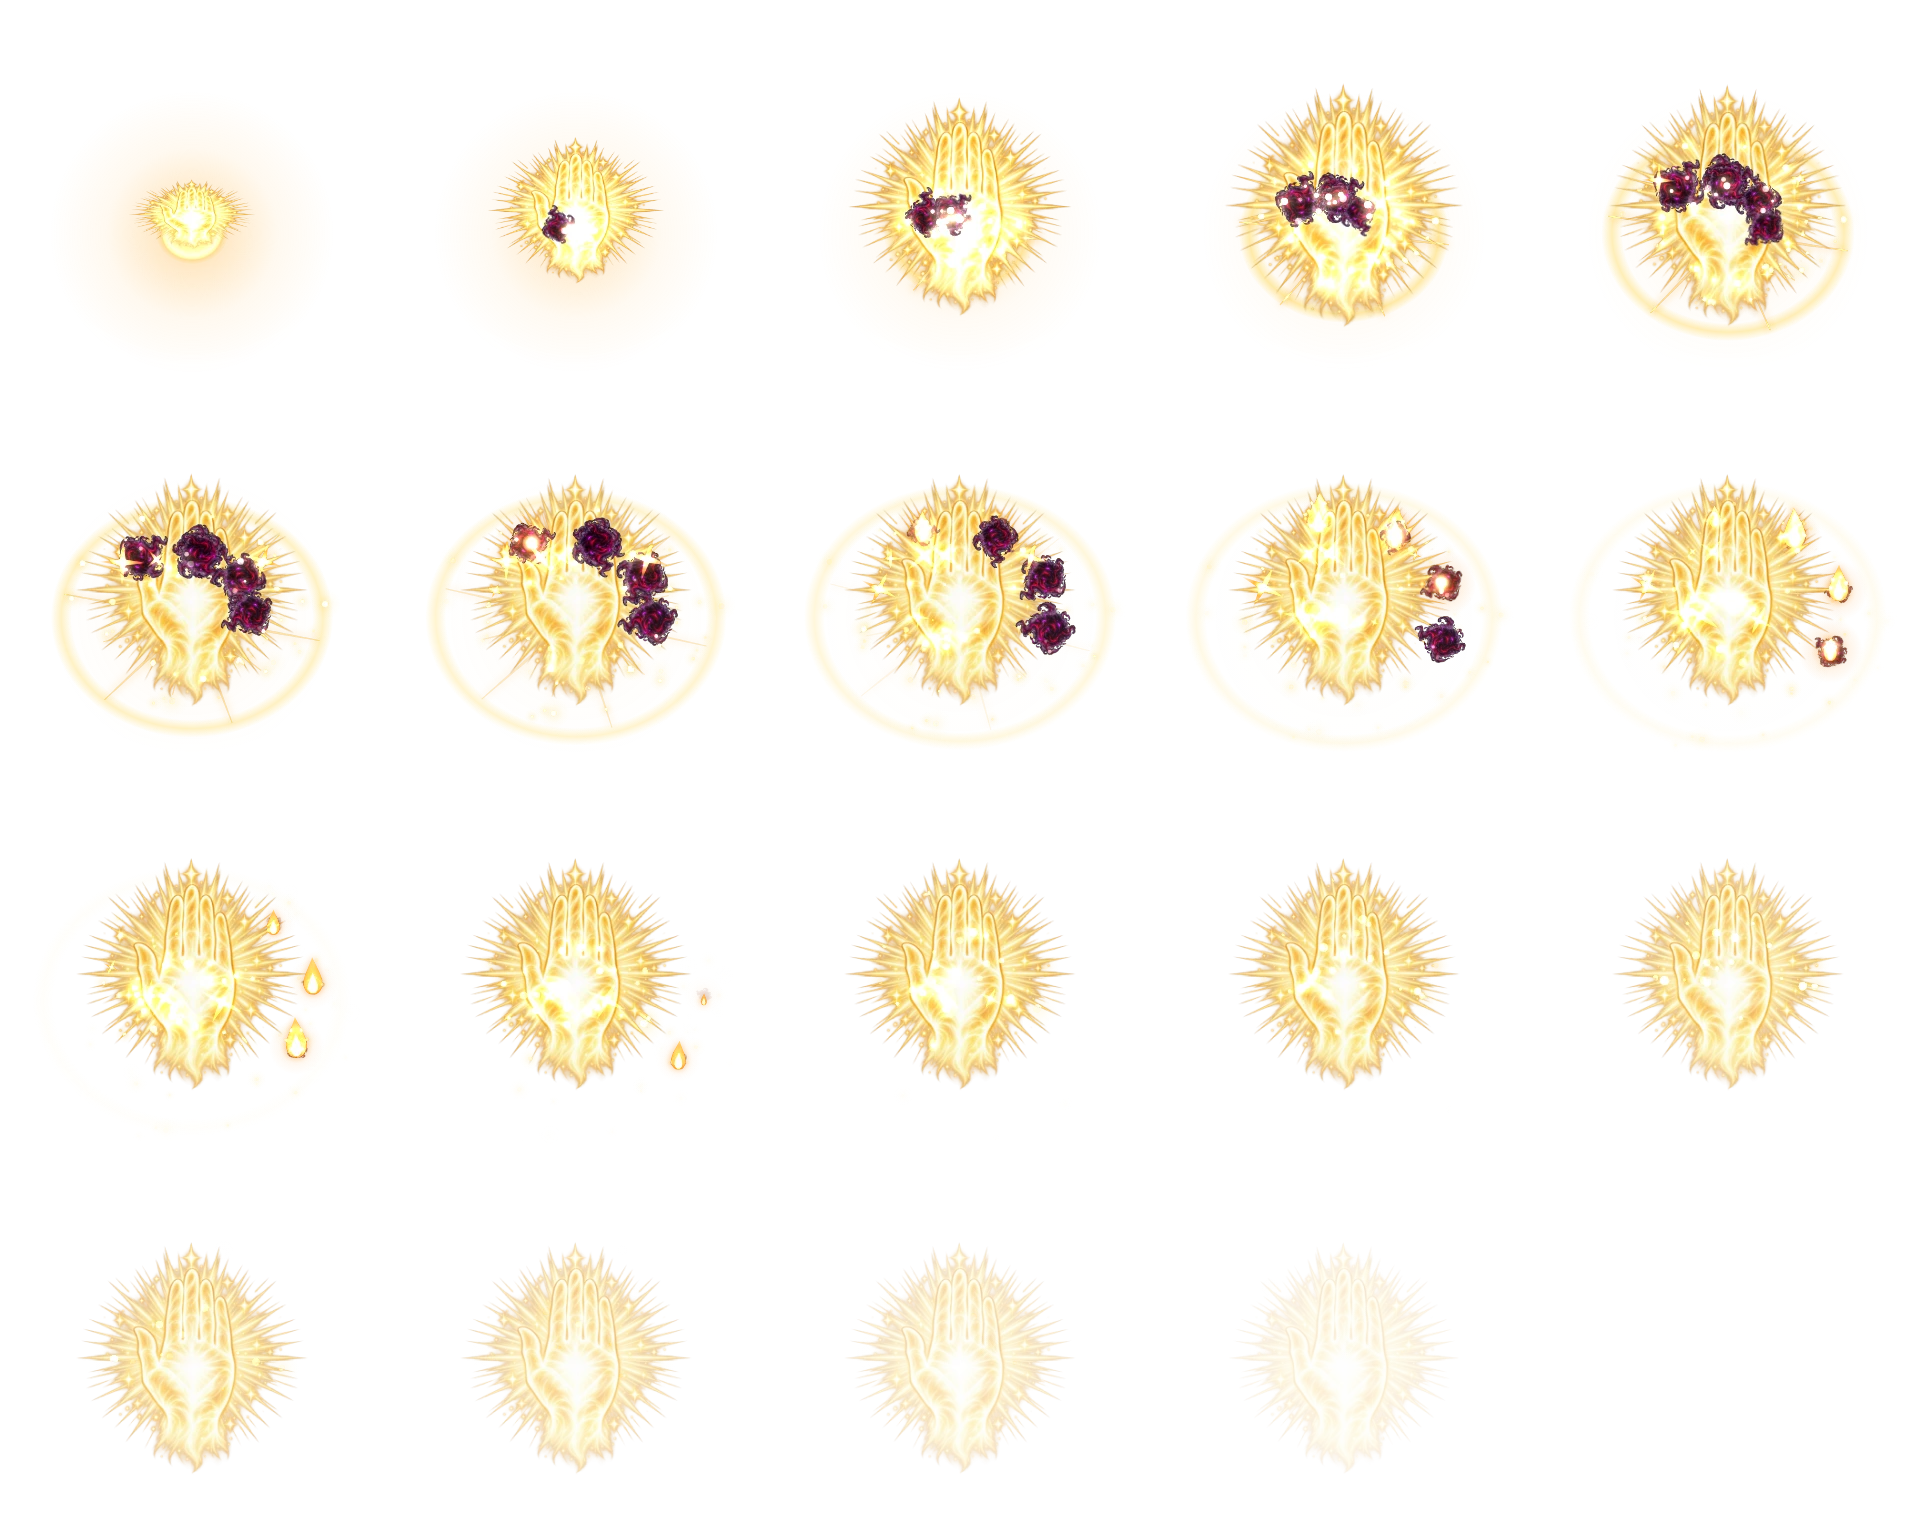
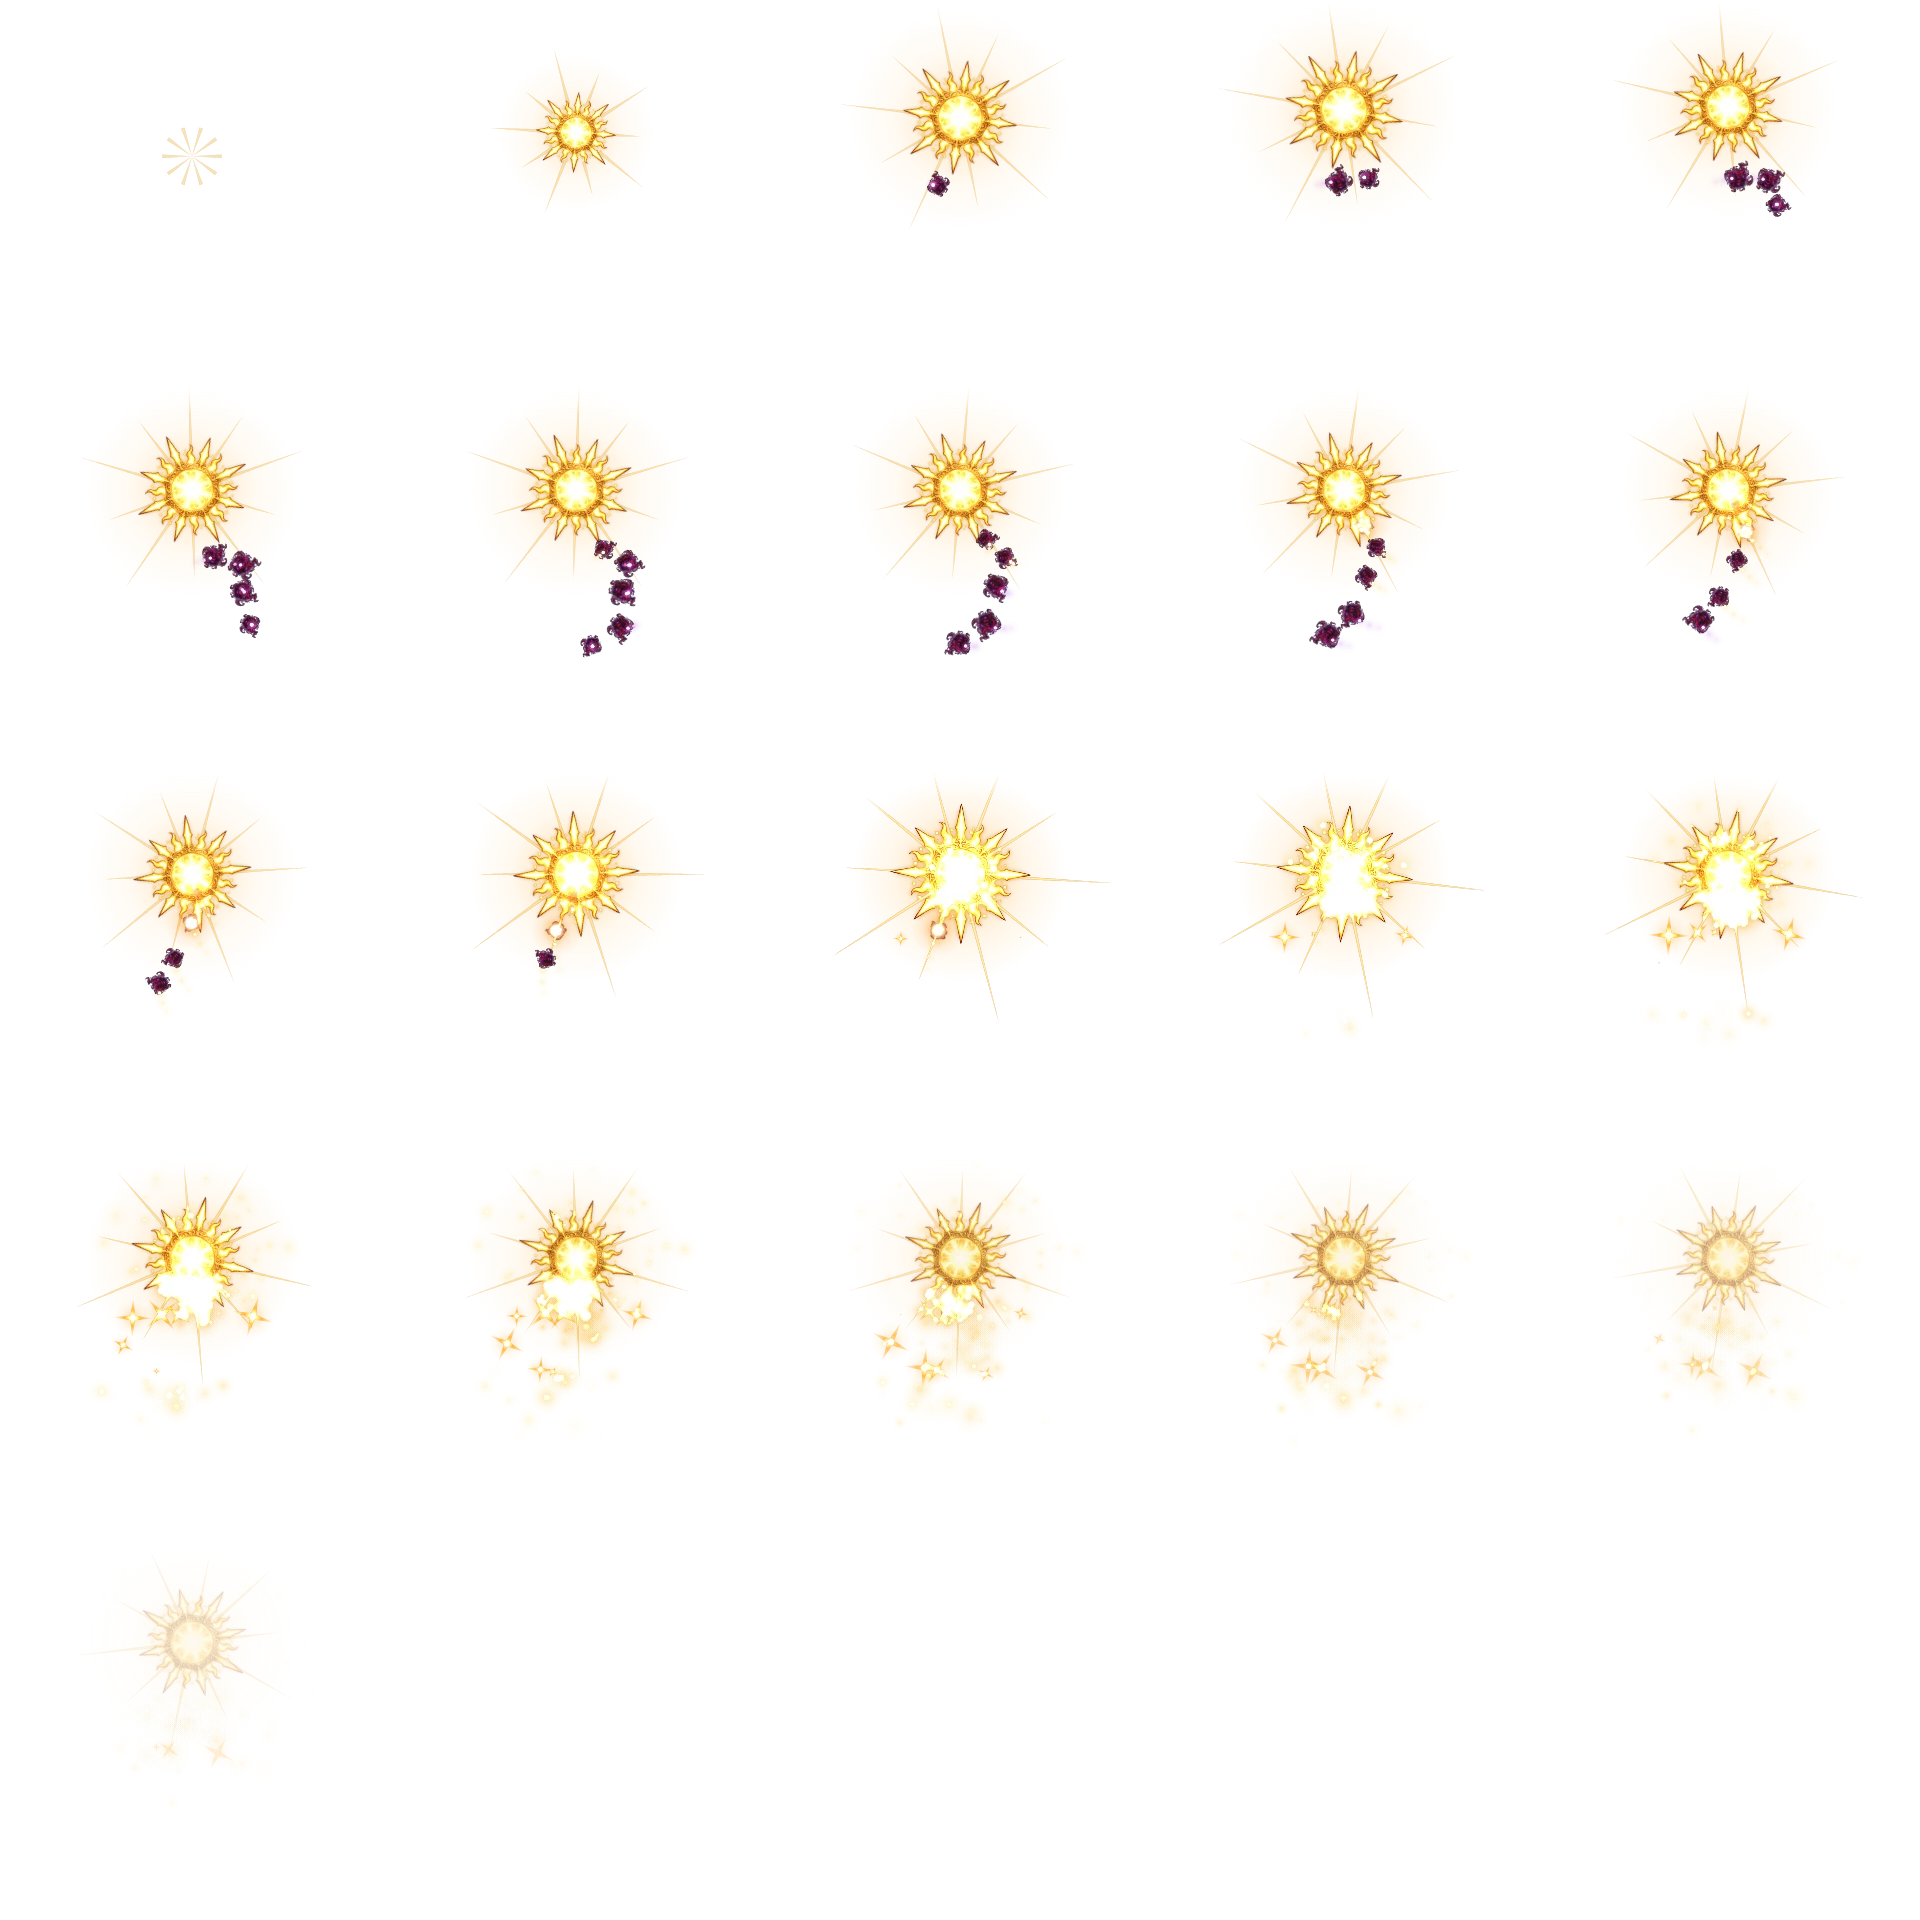
Paladin cleanse: sun emblem that draws out and burns the taint (no hand); sacrifice shield bigger
Lim: remake cleanse without the hand and with a different feel, and make
the sacrifice shield bigger.
- cleanse (22f, logical 100, 384px): a Codex gold sun emblem (paladin-sun)
  rises above the head and slowly turns; dark wisps (paladin-taint) are
  pulled out of the body, spiral up into the sun and burn into sparks;
  then the sun flashes and clean gold dust showers down, burst, glints,
  swirl. paladin-hand asset removed.
- sacrifice (320px): shield 0.72 -> 1.3 with the chain ending at its top,
  bigger glow/ring/orbiting embers.

diff --git a/src/battle/pxf.ts b/src/battle/pxf.ts
@@ -85,8 +85,8 @@ export const PXF = {
   'paladin-beacon': skill(20, 100, { size: 384 }), // 봉화 그릇 · 불꽃 그림이 뭉개지지 않게 384px 프레임 (10-19 Lim)
   'paladin-oath': skill(24, 90),
   'paladin-light-wave': skill(20, 88),
-  'paladin-cleanse': skill(20, 92, { size: 384 }), // 손 그림이 뭉개지지 않게 384px 프레임 (10-19 Lim 「이미지에 신경써보자」)
-  'paladin-sacrifice': skill(22, 92),
+  'paladin-cleanse': skill(22, 100, { size: 384 }), // 태양 문장 그림이 뭉개지지 않게 384px 프레임 (10-19 Lim 「손 모양 제거하고 다른 느낌으로」)
+  'paladin-sacrifice': skill(22, 96, { size: 320 }), // 방패를 크게 (10-19 Lim)
   'paladin-sanctuary': skill(24, 76),
   'paladin-hand-guard': skill(24, 94),
   // 봉화 대상 칸 둘레에서 도는 루프 (스킬 기록이 아니라 board.ts, 2026-10-18 Lim 「봉화대상의 동그란 이미지도 파티클로 루프」)

diff --git a/src/art/pxf/requests.md b/src/art/pxf/requests.md
@@ -63,7 +63,7 @@ Lim 「직업별 스킬별로 이펙트가 달라야 하는데 중복되는 게 
 |  |  | paladin-holy-light | 위에서 쏟아져 내리는 노란 빛 알갱이 (광선 없음, 2026-10-18 Lim) |
 | priest-relay | 포물선으로 날아와 튀는 꼬리 별 | paladin-beacon | 칸 아래 봉화 그릇에 타오르는 불꽃 (Codex 그릇 + 불티) |
 | paladin-oath | 도는 마름모 룬 + 오각 문양 (Codex 오각 서약 문장) | paladin-light-wave | 쏟아져 양옆으로 부서지는 파도 (Codex 파도 마루) |
-| paladin-cleanse | 해돋이 빛살 손바닥 (Codex 빛의 손 · 뽑혀 타는 어둠 연기) | paladin-sacrifice | 내려오는 사슬 + 붉은 맥동 (Codex 진홍 방패) |
+| paladin-cleanse | 머리 위로 솟아 어둠을 빨아들여 태우는 태양 문장 (Codex 태양 문장 · 어둠 연기, 2026-10-19 Lim 손 모양 뺌) | paladin-sacrifice | 내려오는 사슬 + 붉은 맥동 (Codex 진홍 방패) |
 | paladin-sanctuary | 바닥에서 솟는 반구 막 (Codex 빛 돔) | paladin-hand-guard | 도는 팔각 봉인 문양 (Codex 판금 팔각 테) |
 | common-hit | 붉은 할퀸 자국 | common-crit | 오른쪽 위 작은 네 갈래 별 |
 | common-heal | 작은 십자 + 빛 점 | common-dispel | 청록 고리 + 튀는 얼룩 |
